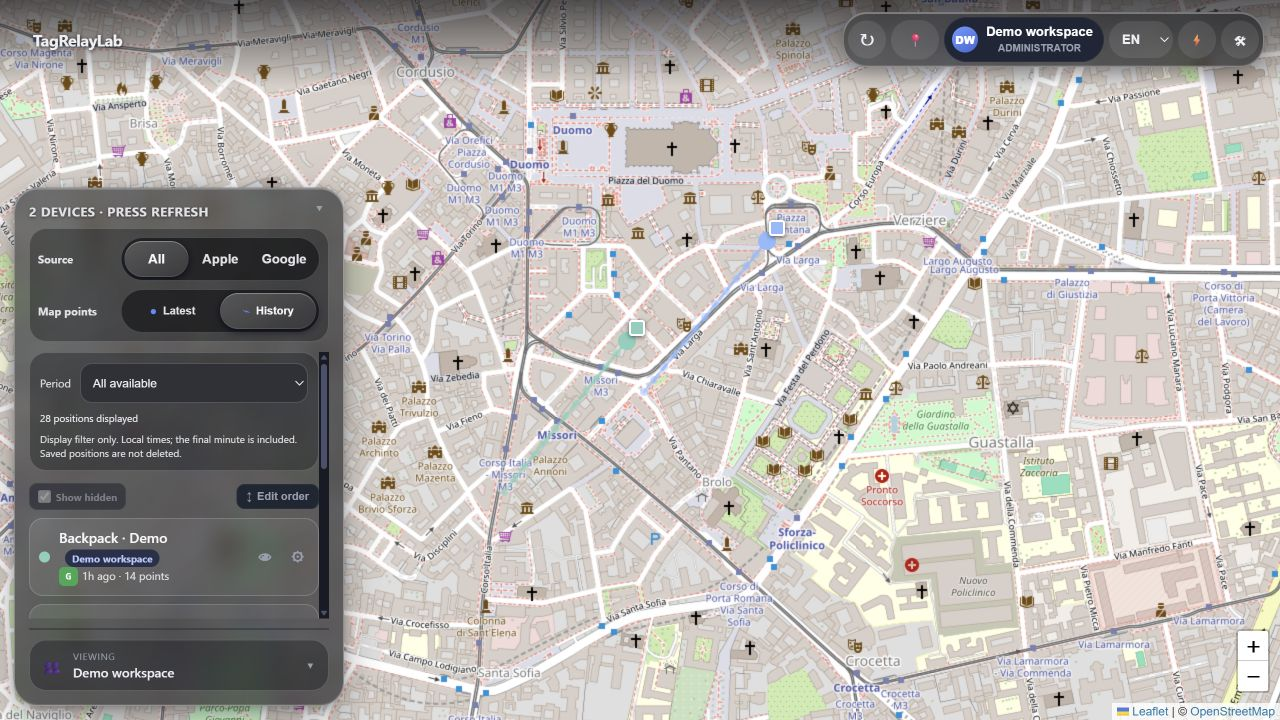
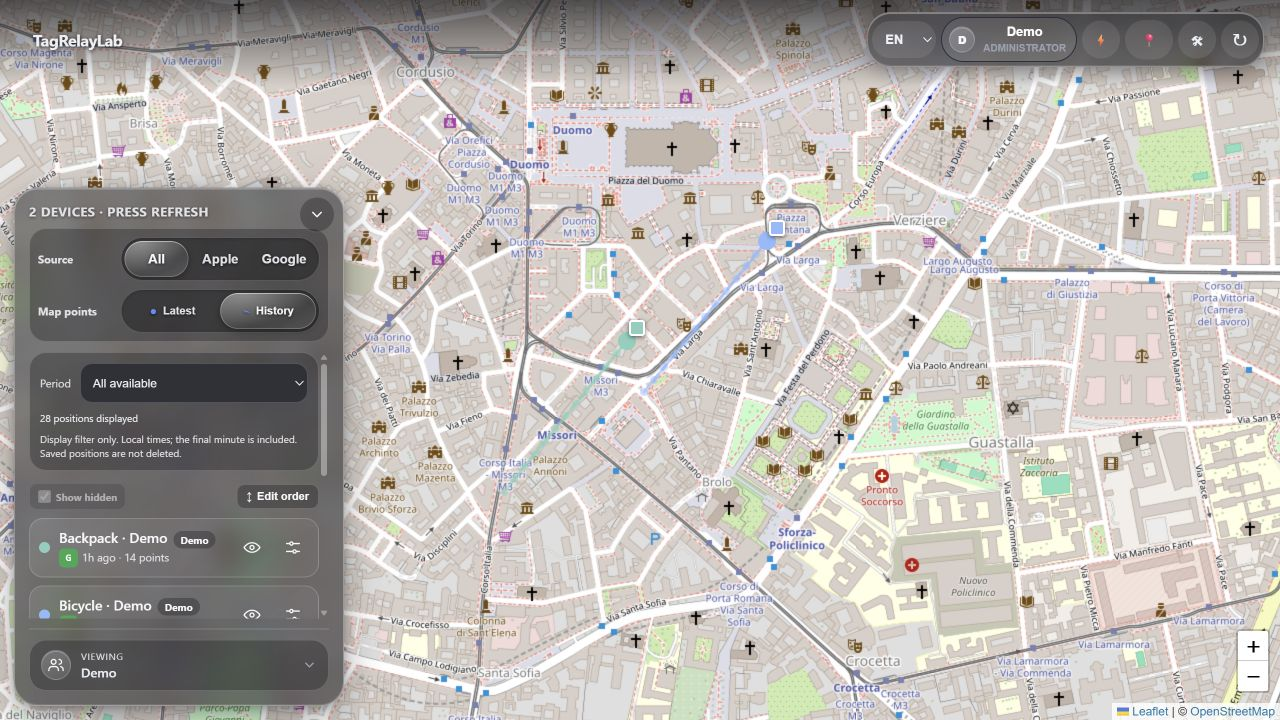
Show the updated mobile device drawer in the preview gallery

diff --git a/docs/screenshots/README.md b/docs/screenshots/README.md
@@ -4,15 +4,17 @@ Older screenshots retain the earlier Find My Web / Find My Hub branding; the ill
 
 ## Liquid Glass development preview
 
-These captures show the unreleased neutral glass interface with synthetic data.
-The mobile controls start collapsed, then open into labeled Map, Map preferences,
-and Tools sections. This is a visual preview, not a new Docker release.
+These captures show the unreleased neutral translucent interface with synthetic data.
+On phones, the outline button at the bottom left opens the device drawer.
+The drawer shows source and history filters, the tracked devices, and, for administrators,
+the account switcher. The down chevron returns to the full map.
+This is a visual preview, not a new Docker release.
 
 | View | Screenshot |
 | --- | --- |
 | Desktop map and saved history | [Glass history](20-glass-history.png) |
-| Mobile map, menu collapsed | [Collapsed controls](21-mobile-menu-closed.png) |
-| Mobile map, grouped menu expanded | [Expanded controls](22-mobile-menu-open.png) |
+| Mobile map with the device drawer closed | [Drawer closed](21-mobile-menu-closed.png) |
+| Mobile device drawer with the account switcher | [Drawer open](22-mobile-menu-open.png) |
 
 ![Desktop history with the neutral translucent interface](20-glass-history.png)
 
